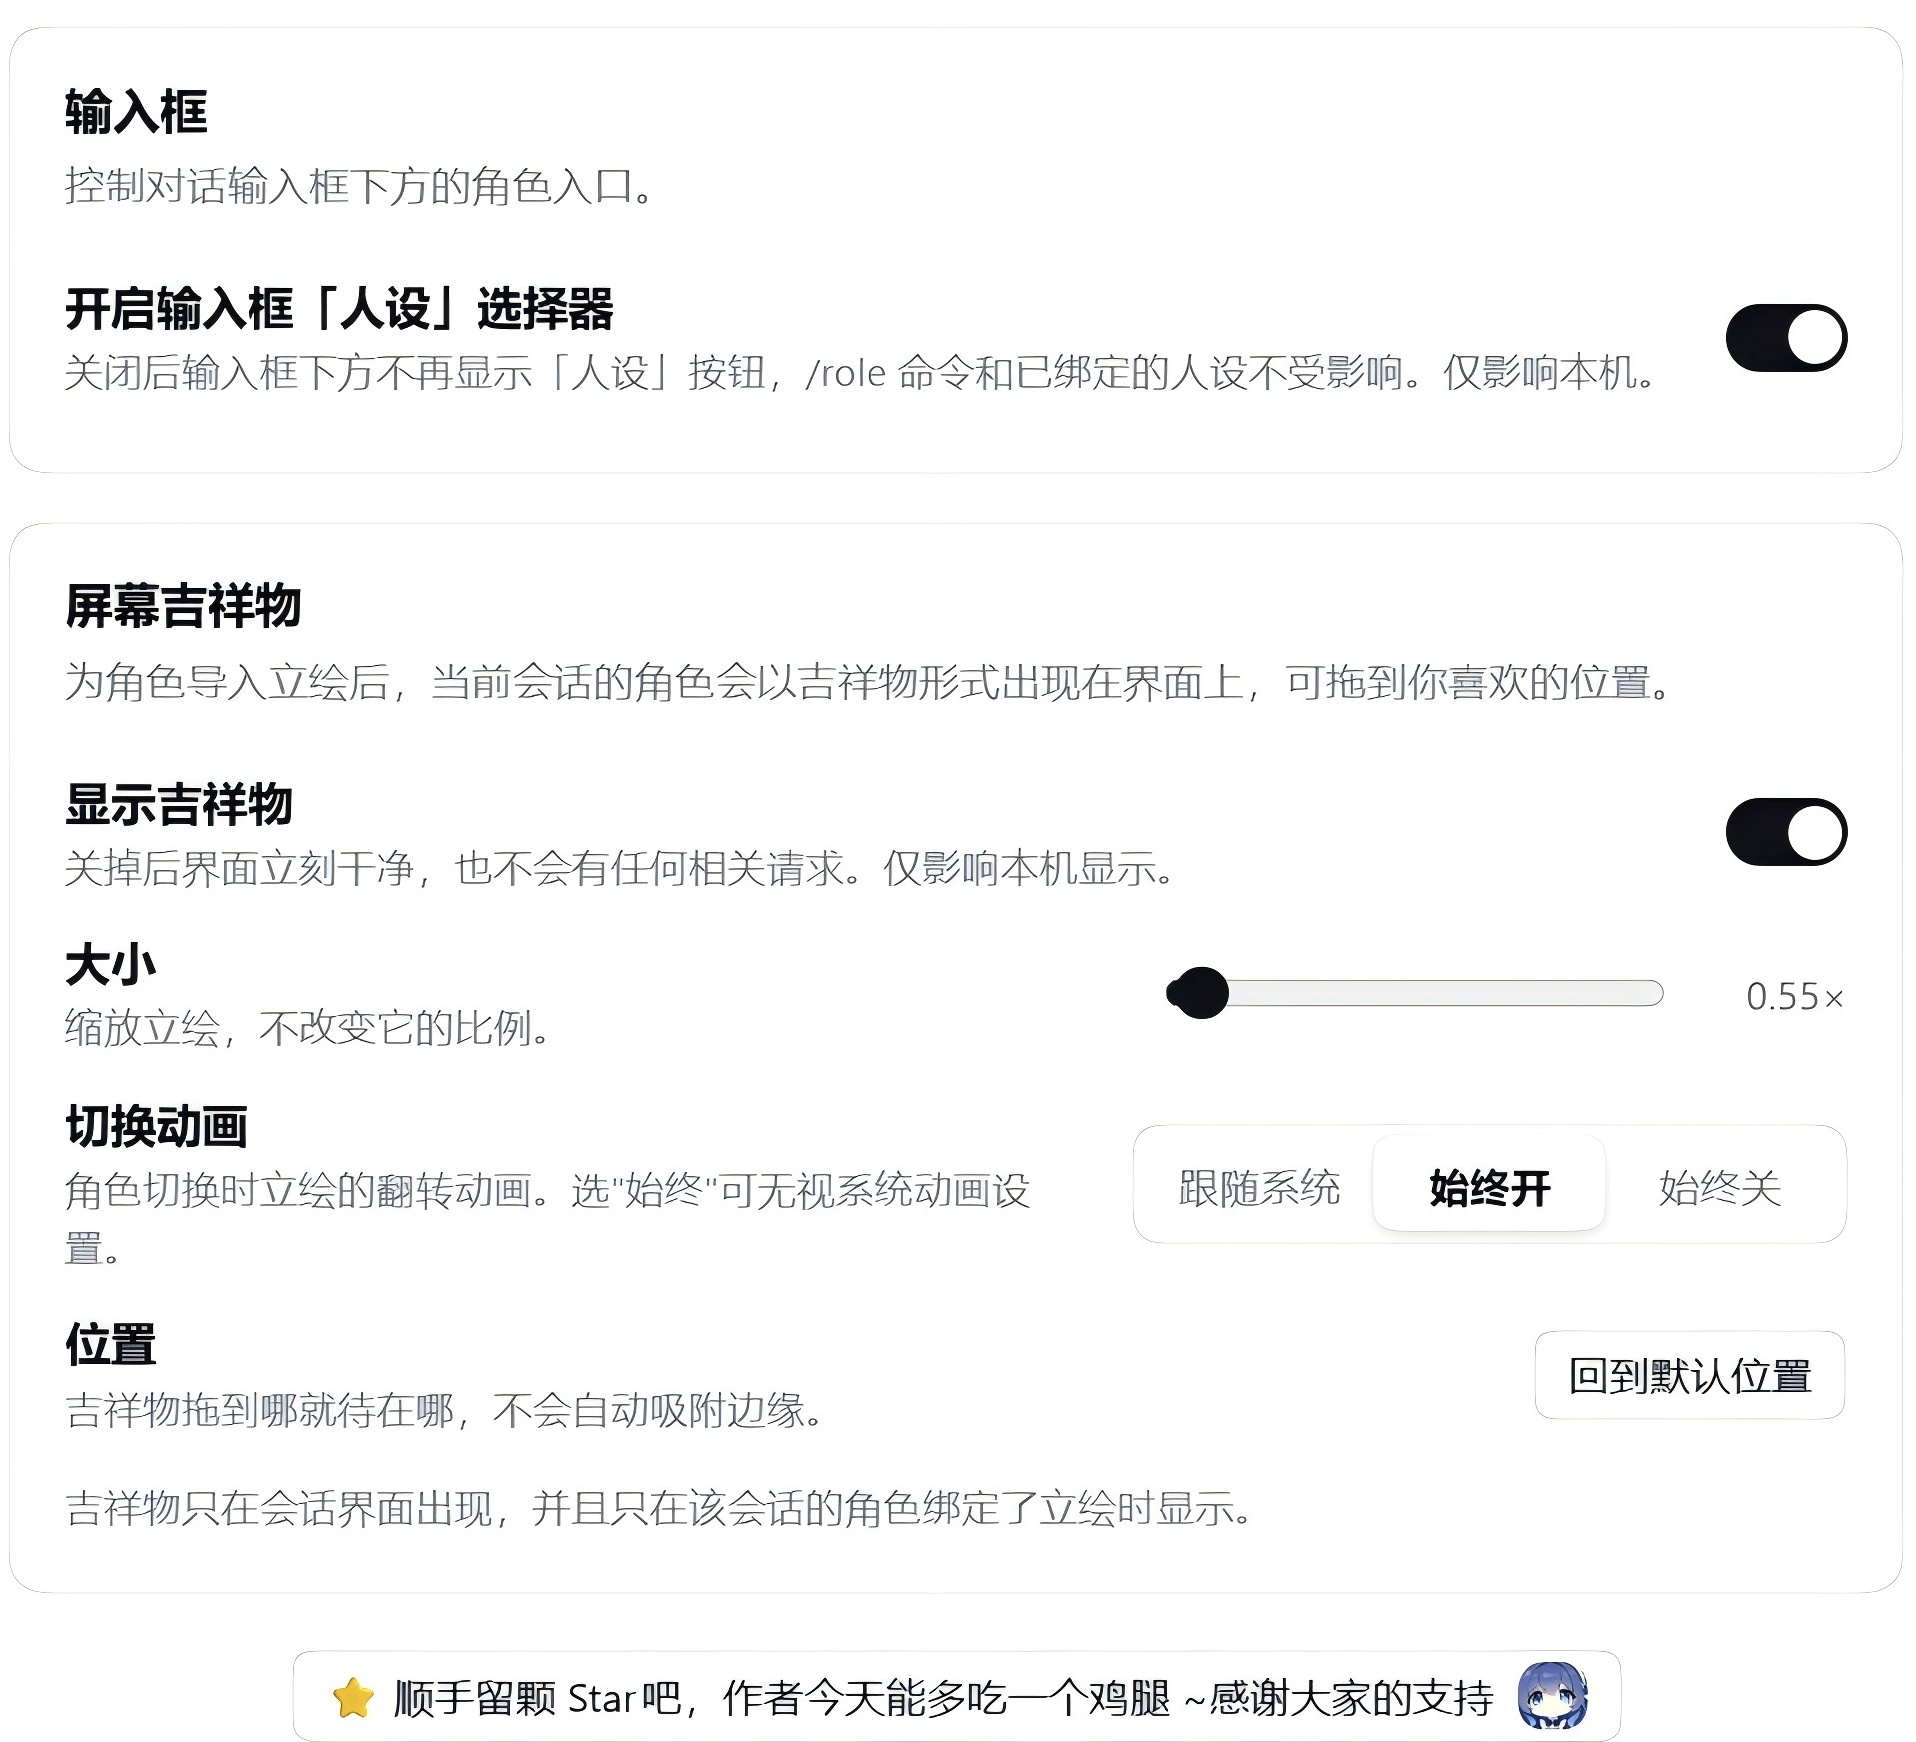
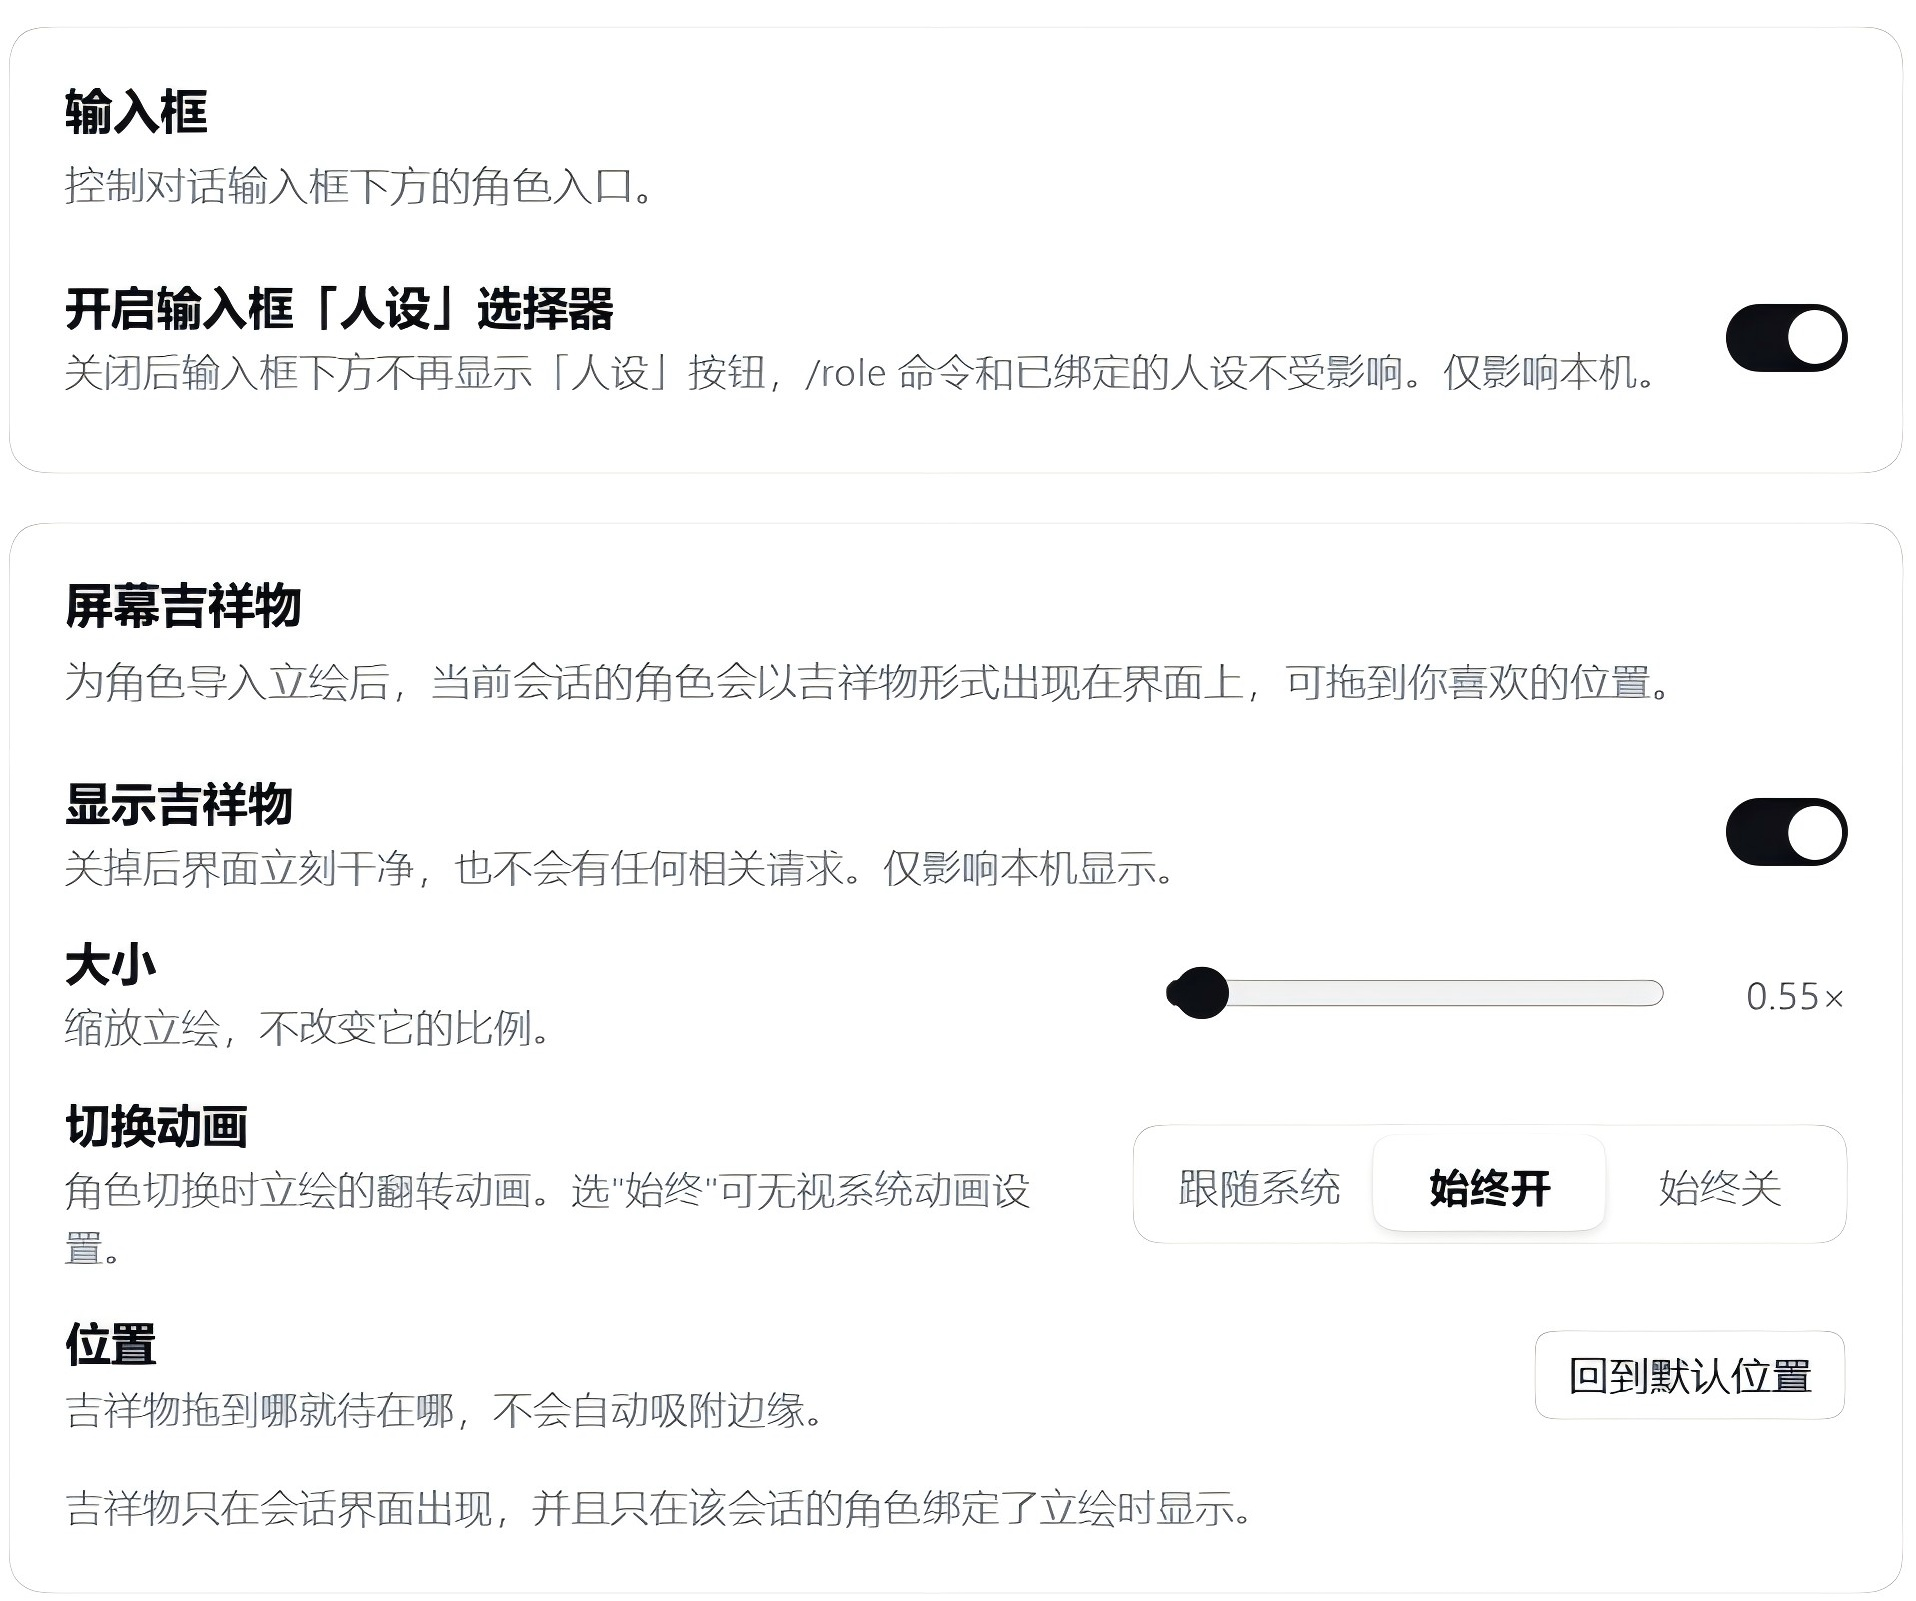
feat(settings): 「顺手留颗 Star」只留在常规页
角色库那一屏本来就有新增角色、换一张、清除立绘、编辑、删除一串按钮，
页脚再挂一颗 Star 在窄窗口里会挤。改成 `tab === 'general'` 时才渲染，
并重新构建 lib/client.js。

文档同步：settings-general-mascot.png 与 settings-role-library.png
裁掉了底部那颗 Star 药丸（只裁掉药丸，卡片和内容一像素没动）。

diff --git a/src/client/index.jsx b/src/client/index.jsx
@@ -2101,22 +2101,24 @@ const PersonaSwitcherSection = (props) => {
         {editor ?? roleLibrary}
       </div>
 
-      <div className="ps-foot">
-        <Button
-          variant="outline"
-          size="sm"
-          icon={<span aria-hidden="true">⭐</span>}
-          onClick={() => window.open(REPO_URL, '_blank', 'noreferrer')}
-        >
-          {t('star')}
-          <img
-            className="ps-foot__avatar"
-            src={STAR_AVATAR}
-            alt=""
-            aria-hidden="true"
-          />
-        </Button>
-      </div>
+      {tab === 'general' && (
+        <div className="ps-foot">
+          <Button
+            variant="outline"
+            size="sm"
+            icon={<span aria-hidden="true">⭐</span>}
+            onClick={() => window.open(REPO_URL, '_blank', 'noreferrer')}
+          >
+            {t('star')}
+            <img
+              className="ps-foot__avatar"
+              src={STAR_AVATAR}
+              alt=""
+              aria-hidden="true"
+            />
+          </Button>
+        </div>
+      )}
     </div>
   )
 }

diff --git a/lib/client.js b/lib/client.js
@@ -3151,7 +3151,7 @@ var PersonaSwitcherSection = (props) => {
         children: editor ?? roleLibrary
       }
     ),
-    /* @__PURE__ */ (0, import_jsx_runtime2.jsx)("div", { className: "ps-foot", children: /* @__PURE__ */ (0, import_jsx_runtime2.jsxs)(
+    tab === "general" && /* @__PURE__ */ (0, import_jsx_runtime2.jsx)("div", { className: "ps-foot", children: /* @__PURE__ */ (0, import_jsx_runtime2.jsxs)(
       import_dsh_client_ui_primitives.Button,
       {
         variant: "outline",

diff --git a/CHANGELOG.md b/CHANGELOG.md
@@ -6,6 +6,11 @@ and this project adheres to [Semantic Versioning](https://semver.org/spec/v2.0.0
 
 ## [Unreleased]
 
+### Changed
+
+- 设置页底部的「顺手留颗 Star」按钮只保留在「常规」页；切到「角色库」后不再显示（角色库本身已经有
+  一整屏操作按钮，页脚那颗 Star 在窄窗口里会挤在新卡片下面）。文档里对应两张截图也裁掉了这枚药丸。
+
 ## [0.4.7] - 2026-11-19
 
 ### Added
